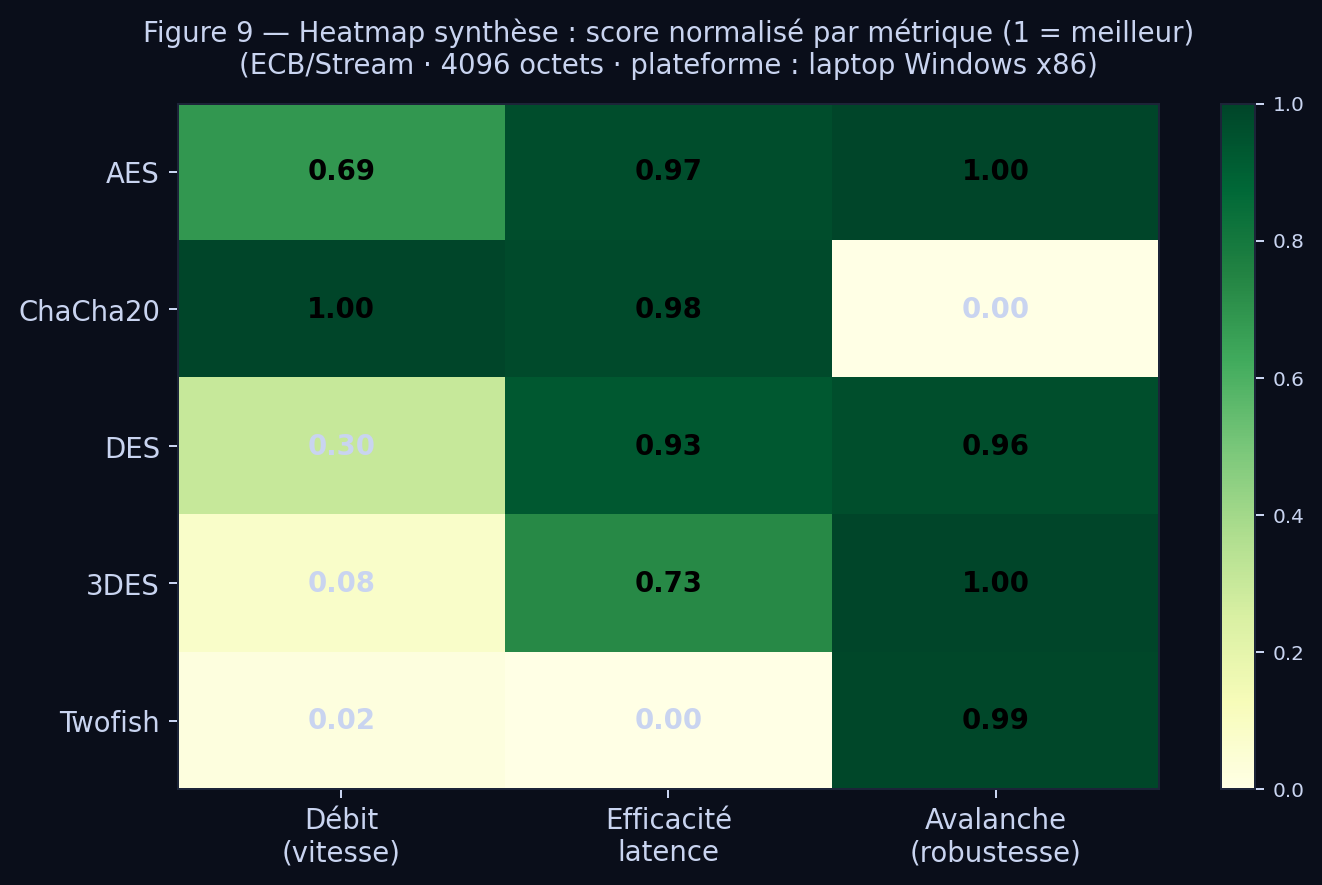
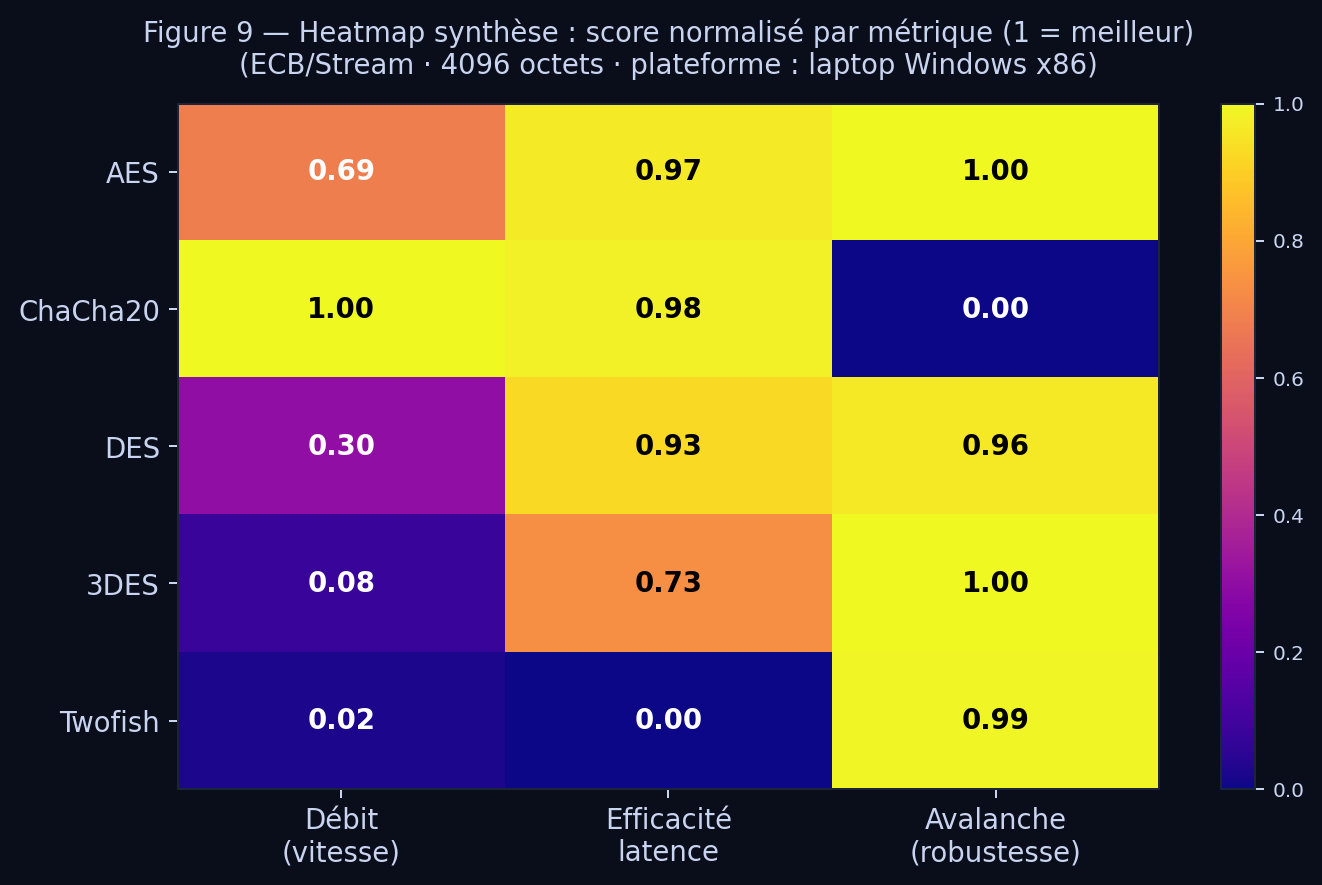
commit

diff --git a/crypto-experiments/scripts/generate_charts.py b/crypto-experiments/scripts/generate_charts.py
@@ -671,7 +671,7 @@ def fig9_synthesis_heatmap():
 
     fig, ax = plt.subplots(figsize=(8, 5))
     fig.patch.set_facecolor(BG_COLOR)
-    im = ax.imshow(data, cmap="YlGn", aspect="auto", vmin=0, vmax=1)
+    im = ax.imshow(data, cmap="plasma", aspect="auto", vmin=0, vmax=1)
     ax.set_xticks(range(len(metrics)))
     ax.set_xticklabels(metrics, fontsize=11, color=TEXT_COLOR)
     ax.set_yticks(range(len(algo_order)))
@@ -680,8 +680,9 @@ def fig9_synthesis_heatmap():
     for i in range(len(algo_order)):
         for j in range(len(metrics)):
             val = data[i, j]
+            # plasma: dark at low values, bright yellow at high — white text on dark, black on bright
             ax.text(j, i, f"{val:.2f}", ha="center", va="center",
-                    fontsize=11, color="black" if val > 0.55 else TEXT_COLOR, fontweight="bold")
+                    fontsize=11, color="white" if val < 0.7 else "black", fontweight="bold")
     cbar = plt.colorbar(im, ax=ax)
     cbar.ax.tick_params(colors=TEXT_COLOR, labelsize=8)
     cbar.ax.yaxis.label.set_color(TEXT_COLOR)
